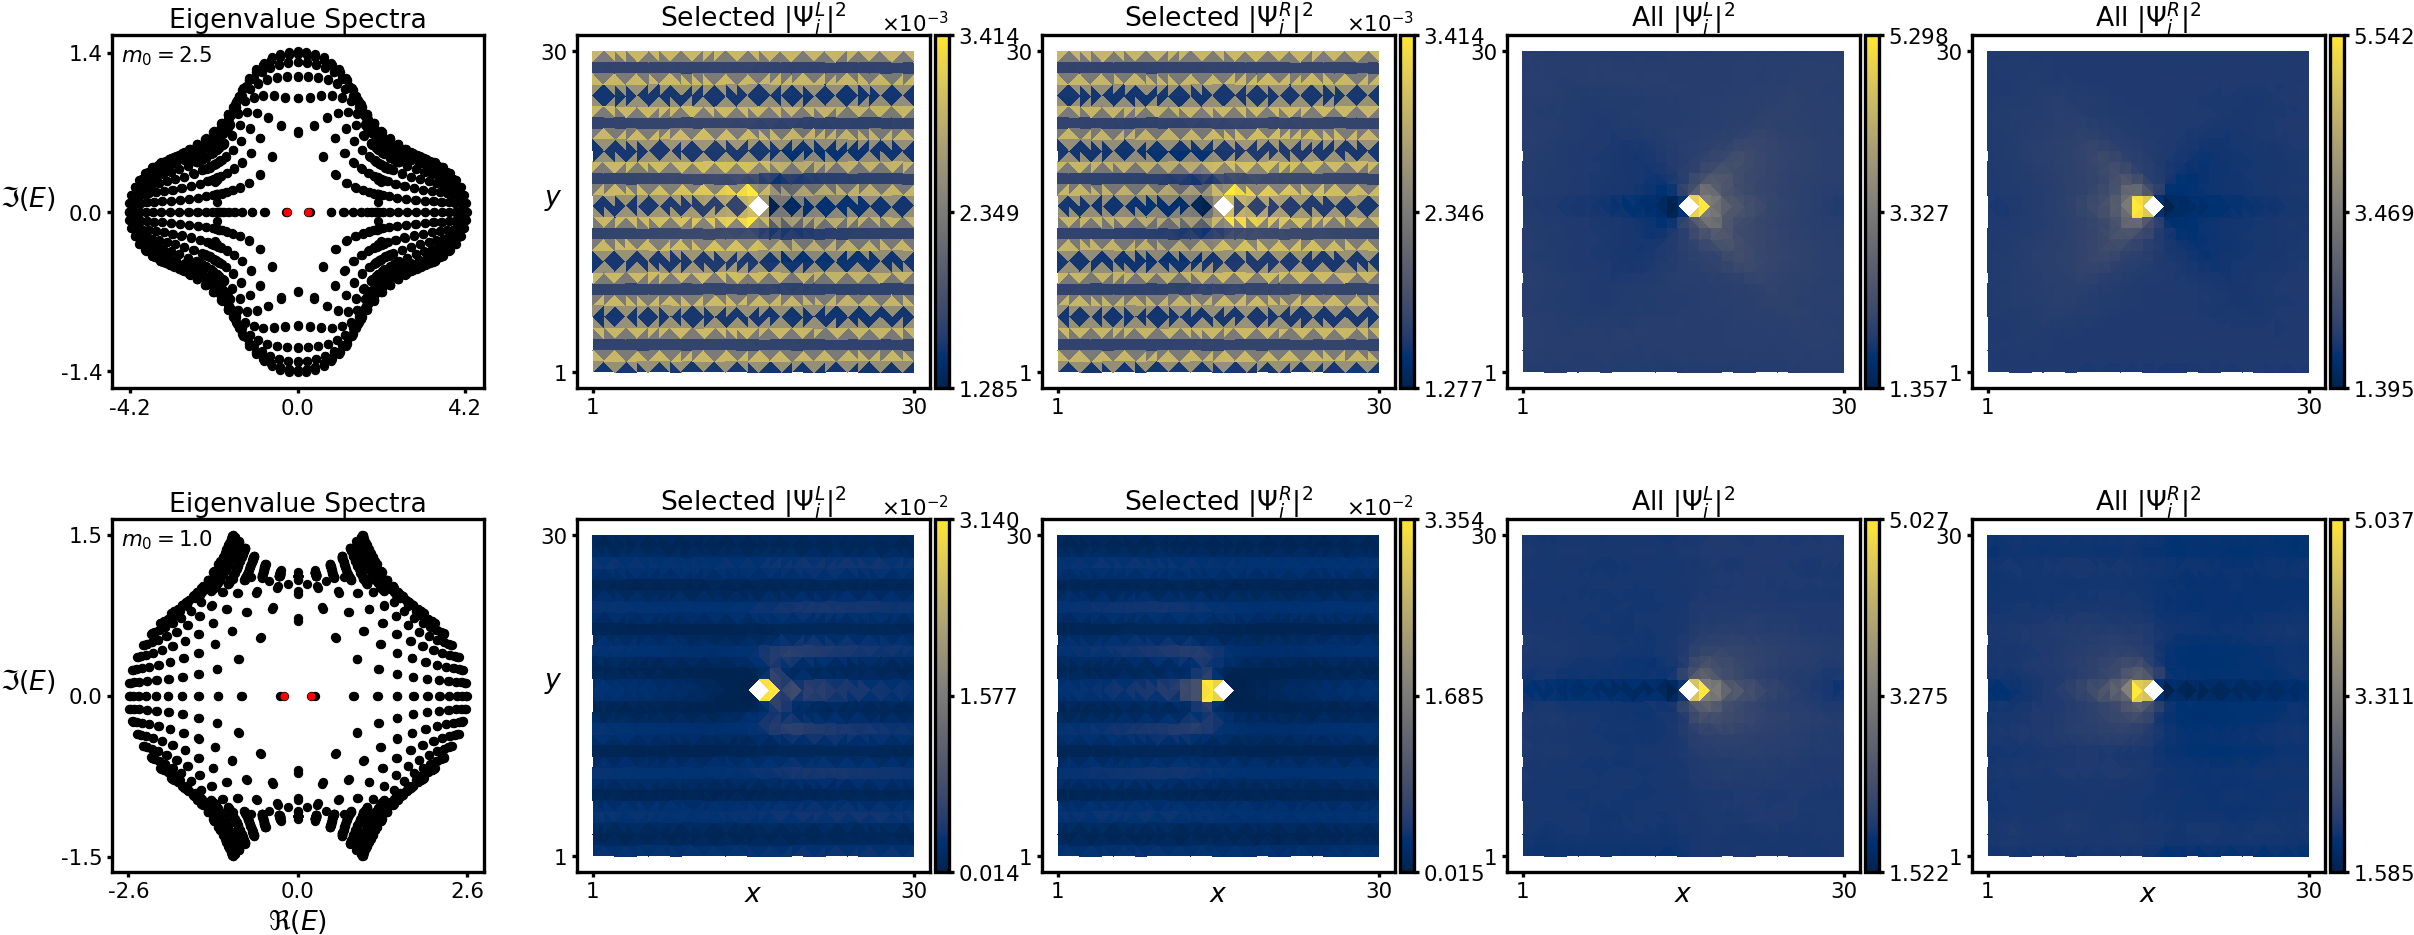
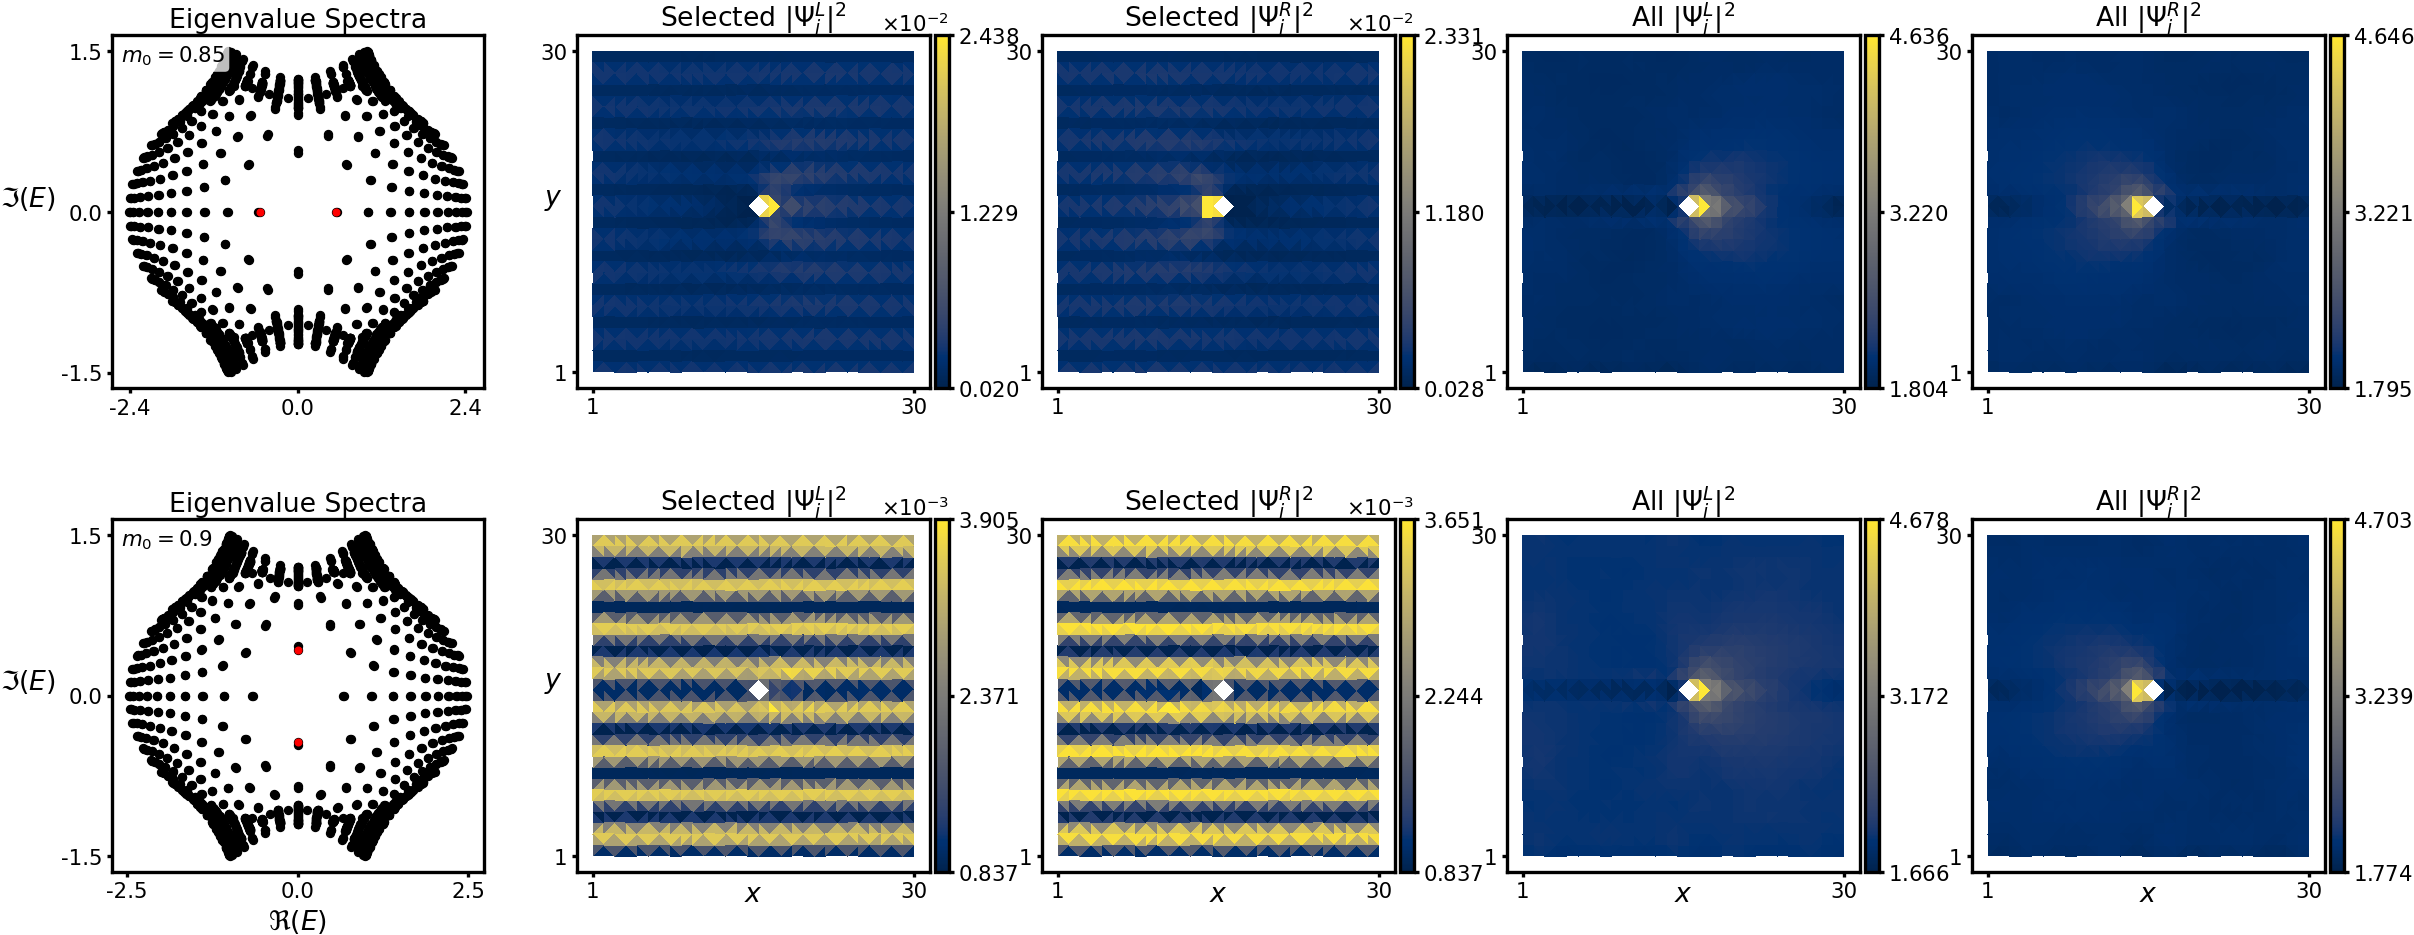
nh defects plots; removed excess from overleaf doc

diff --git a/NonHermitian/nonhermitian_defects.py b/NonHermitian/nonhermitian_defects.py
@@ -435,7 +435,7 @@ def compute_eigenvectors_eigenvalues(Lattice:DefectLattice, m0:float,
     close_to_zero_idxs = np.unique(np.concatenate((close_to_zero_idxs_negreal, close_to_zero_idxs_posreal)))
 
     # Hard-coded selection for certain parameters
-    if 0:
+    if 1:
         if h_vector[0] == 0.25 or h_vector[1] == 0.25 or h_vector[2] == 0.25:
             if all([h_vector[2], not any(h != 0 for h in h_vector[:2]), Lattice.defect_type == 'interstitial']):
                 close_to_zero_idxs = get_separated_points(eigenvalues)
@@ -467,6 +467,14 @@ def compute_eigenvectors_eigenvalues(Lattice:DefectLattice, m0:float,
             if Lattice.defect_type == 'interstitial':
                 if (m0, msub) in [(1.0, 2.5)]:
                     close_to_zero_idxs = np.argsort(np.abs(eigenvalues))[:4]
+        elif h_vector[2] == 0.5 and Lattice.defect_type == 'interstitial':
+            if (m0, msub) in [(1.0, -3.0)]:
+                close_to_zero_idxs = np.argsort(np.abs(eigenvalues.real))[-2:]
+            if (m0, msub) in [(1.0, -1.0)]:
+                close_to_zero_idxs = get_separated_points(eigenvalues)
+        elif h_vector[2] == 0.5 and Lattice.defect_type == 'substitution':
+            if (m0, msub) in [(3., -3.)]:
+                close_to_zero_idxs = np.argsort(np.abs(eigenvalues.imag))[:2]
 
     close_left = left_eigenvectors[:, close_to_zero_idxs] # Eigenstates of selected eigenvalues
     close_right = right_eigenvectors[:, close_to_zero_idxs]
@@ -784,11 +792,17 @@ def plot_nhse_xyz_left_right(Lx:int, Ly:int, m0:float):
 def compute_figures(L, defect_types, h, h_directions = 'xz', fpd=-3.5,
                     m0_values =   [2.5, 1.0],
                     msub_values = [2.5, 1.0, -1.0, -2.5],
-                    overwrite = False):
+                    overwrite = False,
+                    set_values:list = []):
     
-    unique_pairs = np.array(list({(xi, yi) for xi in m0_values for yi in msub_values if xi != yi}))
-    sort = np.lexsort((unique_pairs[:, 1], -unique_pairs[:, 0]))
-    unique_pairs = unique_pairs[sort]
+
+
+    if set_values == []:
+        unique_pairs = np.array(list({(xi, yi) for xi in m0_values for yi in msub_values if xi != yi}))
+        sort = np.lexsort((unique_pairs[:, 1], -unique_pairs[:, 0]))
+        unique_pairs = unique_pairs[sort]
+    else:
+        unique_pairs = np.array(set_values)
 
     default = np.array((h, 0.0, 0.0))
     dir_map = {'x':0,'y':1,'z':2}
@@ -858,12 +872,12 @@ def compute_gap_over_region(L, deftype, m0_range, h_range, hdir, resolution=(25,
 
 if __name__ == "__main__":
     for h in [.5]: 
-        if 0: compute_figures(20, ['vacancy'], h=h, overwrite=True, h_directions='x', m0_values=[.25])
-        plt.show()
+        if 0: compute_figures(30, ['none', 'vacancy', 'schottky'], h=h, overwrite=True, h_directions='x', m0_values=[0.85, 0.9])
+        if 1: compute_figures(20, ['substitution', 'interstitial', 'frenkel_pair'], h=h, overwrite=True, h_directions='x', set_values=[(1., -3.), (1, -1.), (3, -1.), (3.0, -3.0)])
     if 0: 
         Lattice = DefectLattice(20, 20, 'substitution', True)
         find_defect_points(Lattice, 2.5, [0., 0., 0.], -2.5)
-    if 1:
+    if 0:
         method = 'substitution'
         hdir = 'x'
         M0, H, GAP = compute_gap_over_region(20, method, (0., 2.), (0., 2.), hdir, resolution=(51, 51))
